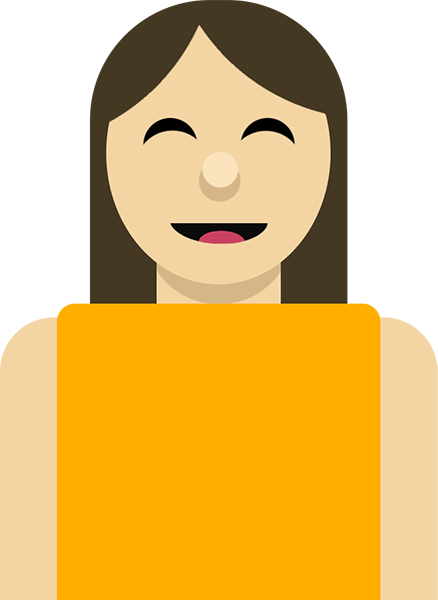
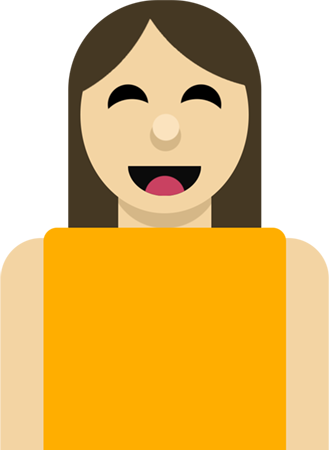
p2: editing p5 play frames because she talks too fast

diff --git a/Projects/Project 2/project 2/js/script.js b/Projects/Project 2/project 2/js/script.js
@@ -142,13 +142,13 @@ function userObject(userNeedle) {
 //the speaker character is created with p5 play
 function speakerCharacter() {
   //loading character animation when NOT speaking
-  introCharacter = createSprite(600, 600, 100, 100);
+  introCharacter = createSprite(1000, 575, 100, 100);
   introCharacter.addAnimation("notSpeaking", "assets/images/girlStandard.png");
   //loading chracter animation when speaking
   introCharacter.addAnimation(
     "speaking",
     "assets/images/girl01.png",
-    "assets/images/girl03.png"
+    "assets/images/girl11.png"
   );
 }
 
@@ -174,7 +174,7 @@ function keyPressed() {
 
 function drawTextBubble() {
   imageMode(CENTER);
-  image(speechBubble, 400, 400, 500, 600);
+  image(speechBubble, 500, 400, 500, 600);
 }
 
 //intro page --> the button that is clicked on to trigger the interactive page
@@ -235,7 +235,7 @@ function mousePressed() {
     let d = dist(button.x, button.y, mouseX, mouseY);
     if (d < button.width / 2) {
       state = "interactiveScreen";
-      //display buttons in interactive page
+      //display buttons in interactive page (they lead to beadwork artist pages)
       document.getElementById("button_1").style.display = "block";
       document.getElementById("button_2").style.display = "block";
       document.getElementById("button_3").style.display = "block";
